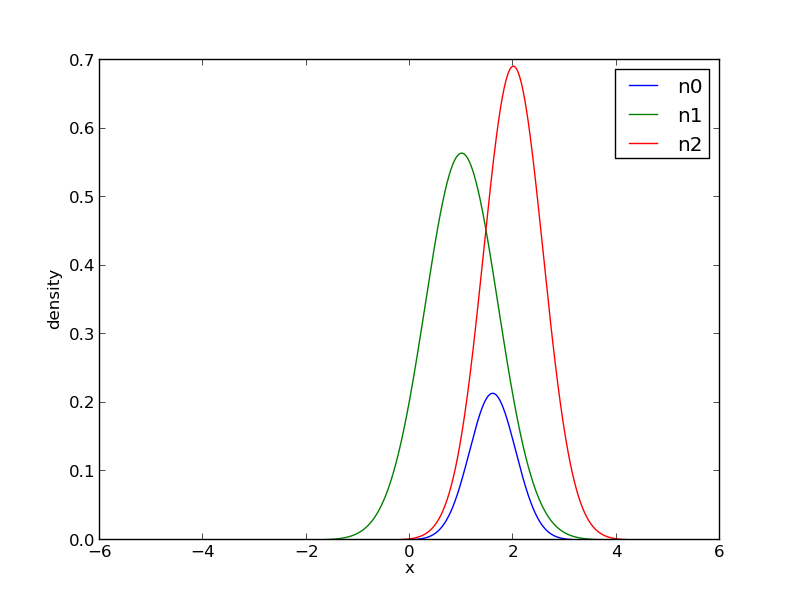
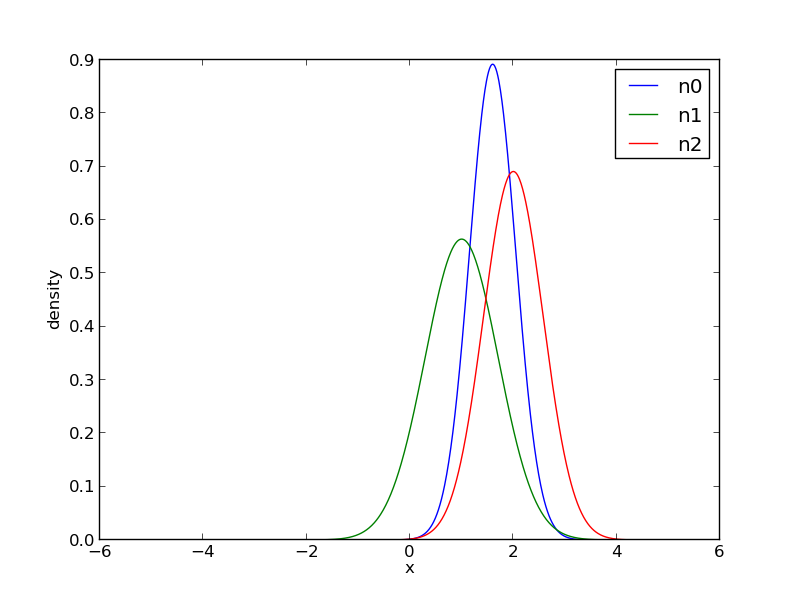
2013/11/05-10:42:15 (Linux x4600-2 x86_64)

diff --git a/tfbayes/fg/distribution-test.py b/tfbayes/fg/distribution-test.py
@@ -21,6 +21,7 @@ def plot_density(d, x_from, x_to, n=1001):
     plt.show()
 
 def plot_density_list(d_list, x_from, x_to, labels=None, xlab="x", ylab="density", n=1001):
+    plt.clf()
     p_list = []
     ax = plt.subplot(1,1,1)
     for i, d in enumerate(d_list):
@@ -81,6 +82,7 @@ n1  = normal_distribution_t(1,2)
 n2  = normal_distribution_t(2,3)
 n0 *= n1
 n0 *= n2
+n0.renormalize()
 
 plot_density_list([n0,n1,n2], -5, 5, ["n0", "n1", "n2"])
 plt.savefig("distribution-test.png")

diff --git a/tfbayes/fg/README.md b/tfbayes/fg/README.md
@@ -3,4 +3,13 @@
 
 ### Example: Distributions
 
+Create two normal distributions with different mean and variance. The two distributions are multiplied and the resulting distribution is shown after renormalization.
+
+	n0  = normal_distribution_t()
+	n1  = normal_distribution_t(1,2)
+	n2  = normal_distribution_t(2,3)
+	n0 *= n1
+	n0 *= n2
+	n0.renormalize()
+
 ![alt tag](distribution-test.png)
